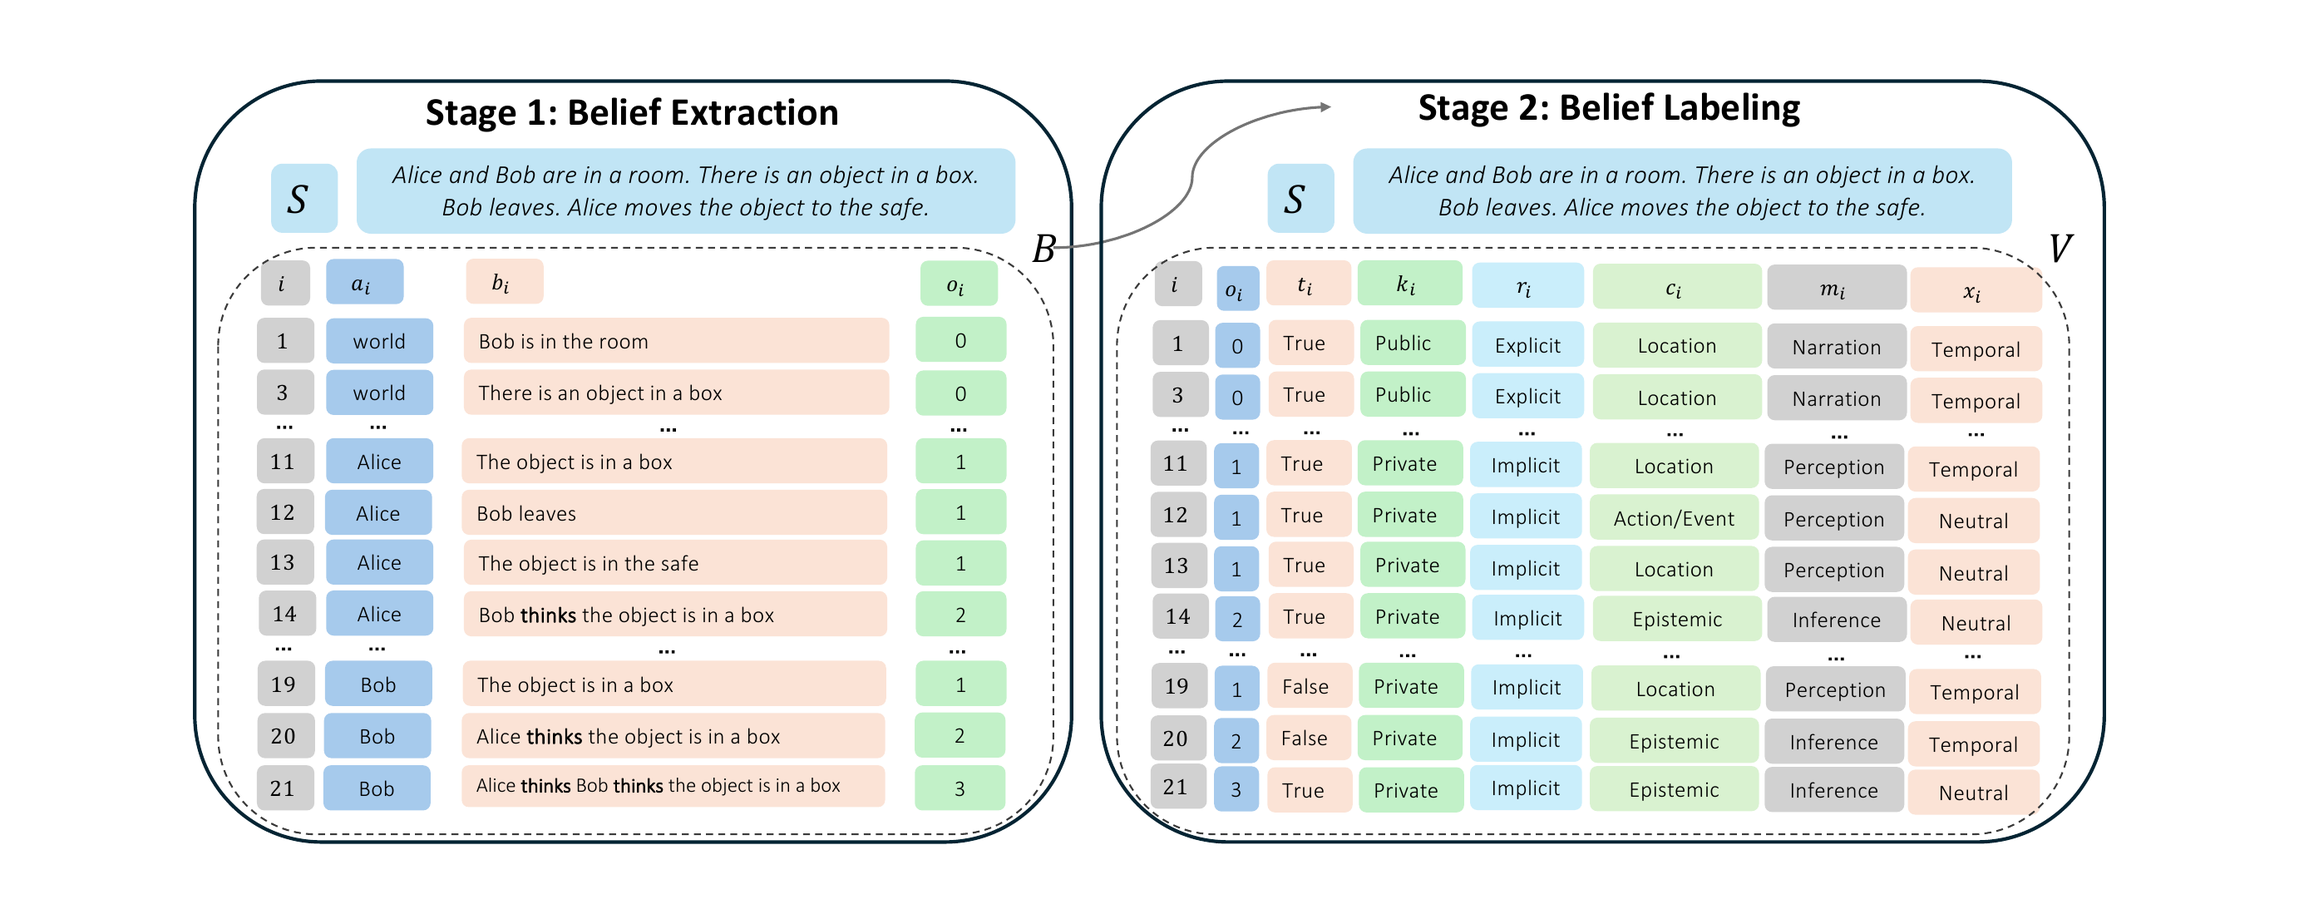
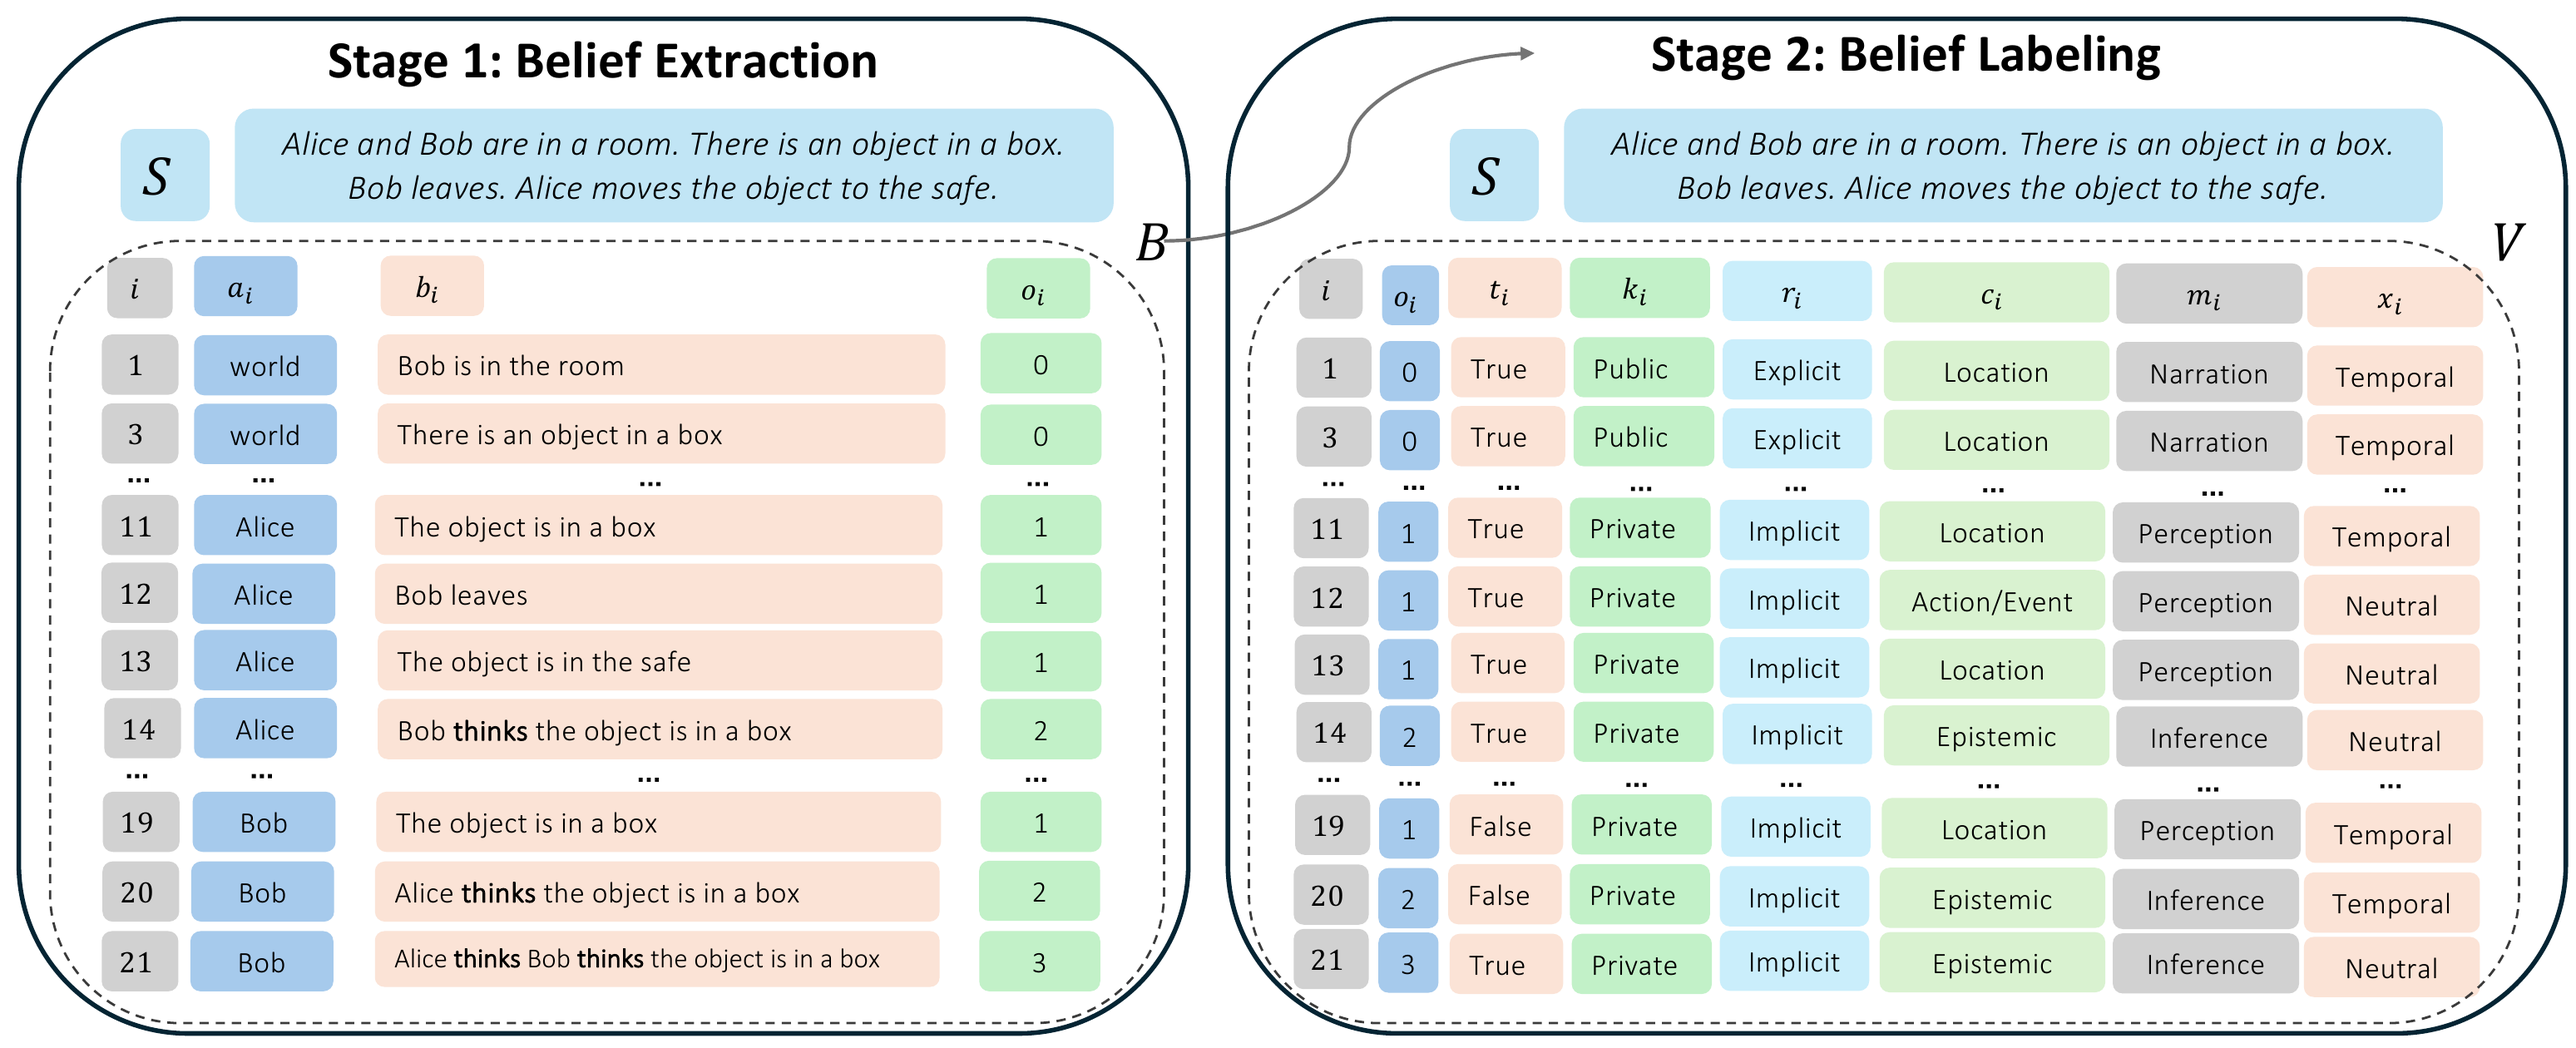
Update benchmark release for camera-ready paper

diff --git a/README.md b/README.md
@@ -4,6 +4,7 @@
   <a href="https://arxiv.org/abs/2605.26322"><img src="https://img.shields.io/badge/arXiv-2605.26322-b31b1b.svg" alt="arXiv"></a>
   <a href="https://adam-12-0.github.io/omnitom-project/"><img src="https://img.shields.io/badge/Project-Page-blue.svg" alt="Project Page"></a>
   <a href="https://github.com/Adam-12-0/omnitom-benchmark"><img src="https://img.shields.io/badge/GitHub-Benchmark-black.svg?logo=github" alt="GitHub"></a>
+  <a href="https://huggingface.co/datasets/Adam-12-0/omnitom-benchmark"><img src="https://img.shields.io/badge/Hugging%20Face-Dataset-yellow.svg?logo=huggingface" alt="Hugging Face Dataset"></a>
   <a href="LICENSE"><img src="https://img.shields.io/badge/License-MIT-green.svg" alt="License"></a>
 </p>
 
@@ -69,45 +70,74 @@ The seven schema dimensions are: **Order · Truth Status · Knowledge Access · 
 
 ### Main Benchmark Results (Zero-Shot, TELeR L3)
 
-Stage 1 reports category-wise and overall macro F1. Stage 2 reports per-dimension and overall macro belief-labeling accuracy. GPT-5 is omitted from Stage 1 because it serves as the semantic judge. **Bold** = best, <u>underline</u> = second-best.
+The camera-ready main table reports story-macro Stage 1 F1 with 95% bootstrap confidence intervals, endpoint QA accuracy, and story-macro Stage 2 accuracy. GPT-5 is omitted from Stage 1 because it serves as the semantic judge. **Bold** = best, <u>underline</u> = second-best.
+
+| Model | Stage 1 F1 [95% CI] | Endpoint QA | Order | Status | Access | Repr | CType | Source | Context | Overall |
+| --- | ---: | ---: | ---: | ---: | ---: | ---: | ---: | ---: | ---: | ---: |
+| **Closed-source** | | | | | | | | | | |
+| Gemini-2.5 Pro | **61.63 [60.88, 62.39]** | **82.77** | 96.23 | <u>86.50</u> | 66.94 | **89.01** | **86.35** | **86.70** | 87.07 | <u>85.54</u> |
+| Gemini-2.5 Flash | 55.75 [54.63, 56.82] | <u>81.82</u> | 95.56 | 84.97 | 71.34 | <u>87.58</u> | <u>85.97</u> | 84.10 | <u>92.14</u> | **85.95** |
+| GPT-5 | N/A | N/A | 95.18 | 82.72 | 66.85 | 83.42 | 79.96 | 83.02 | 88.83 | 82.85 |
+| **Open-weight** | | | | | | | | | | |
+| Gemma-3 27B | <u>58.03 [57.05, 59.01]</u> | 58.47 | <u>96.56</u> | 82.44 | 71.57 | 54.33 | 73.50 | 78.72 | 92.07 | 78.46 |
+| Mistral-Small 24B | 56.46 [55.53, 57.41] | 76.55 | 95.13 | 82.22 | **74.59** | 62.79 | 76.01 | 84.82 | 91.90 | 81.06 |
+| Mistral-Large 123B | 53.53 [52.61, 54.44] | 77.39 | **97.25** | **86.53** | <u>74.14</u> | 72.87 | 82.83 | <u>86.32</u> | **92.97** | 84.70 |
+| Qwen3 32B | 51.63 [50.68, 52.56] | 73.62 | 96.42 | 82.43 | 73.91 | 62.45 | 71.27 | 76.84 | 90.81 | 79.16 |
+| Llama-3.3 70B | 47.12 [46.12, 48.09] | 76.22 | 92.74 | 83.55 | 67.41 | 72.43 | 72.35 | 76.71 | 91.69 | 79.55 |
+| Qwen3 8B | 42.70 [41.50, 43.85] | 64.84 | 73.38 | 67.17 | 57.94 | 63.77 | 51.43 | 61.49 | 74.62 | 64.26 |
+| Llama-3.1 8B | 37.21 [36.02, 38.38] | 63.95 | 71.90 | 65.59 | 56.13 | 64.40 | 48.63 | 55.18 | 76.81 | 62.66 |
+
+### Detailed Results
+
+The tables below retain the category-wise Stage 1 breakdown and a separate Stage 2 view.
 
 #### Stage 1, Belief Extraction F1 (%)
 
 | Model | Params | AST | FBT | FPT | HT | PST | SIT | SST | **Overall** |
 | --- | --- | ---: | ---: | ---: | ---: | ---: | ---: | ---: | ---: |
 | **Closed-source** | | | | | | | | | |
-| Gemini-2.5 Flash | N/A | 42.40 | 56.48 | **57.78** | **50.34** | **58.55** | 62.91 | **56.31** | **54.97** |
+| Gemini-2.5 Pro | N/A | **54.33** | <u>71.55</u> | **62.11** | **55.10** | **64.84** | 63.74 | **60.21** | **61.63** |
+| Gemini-2.5 Flash | N/A | 42.40 | 56.48 | 57.78 | <u>50.34</u> | <u>58.55</u> | 62.91 | <u>56.31</u> | 55.75 |
 | GPT-5 | N/A | N/A | N/A | N/A | N/A | N/A | N/A | N/A | N/A |
 | **Open-weight** | | | | | | | | | |
-| Gemma-3 27B | 27B | **48.72** | **72.39** | 56.05 | 45.46 | 56.72 | **68.76** | **55.77** | **57.69** |
-| Mistral-Small 24B | 24B | **52.97** | 54.58 | **59.79** | **48.32** | 56.97 | **66.20** | 53.17 | **56.00** |
-| Mistral-Large 123B | 123B | 47.75 | **71.28** | 53.66 | 41.78 | **58.53** | 57.38 | 48.35 | 54.10 |
+| Gemma-3 27B | 27B | 48.72 | **72.39** | 56.05 | 45.46 | 56.72 | **68.76** | 55.77 | <u>58.03</u> |
+| Mistral-Small 24B | 24B | <u>52.97</u> | 54.58 | <u>59.79</u> | 48.32 | 56.97 | <u>66.20</u> | 53.17 | 56.46 |
+| Mistral-Large 123B | 123B | 47.75 | 71.28 | 53.66 | 41.78 | 58.53 | 57.38 | 48.35 | 53.53 |
 | Qwen3 32B | 32B | 46.88 | 57.32 | 53.38 | 41.41 | 57.25 | 56.51 | 48.67 | 51.63 |
-| Llama-3.3 70B | 70B | 37.51 | 64.07 | 46.33 | 36.27 | 47.23 | 57.70 | 41.58 | 47.24 |
-| Qwen3 8B | 8B | 39.12 | 50.22 | 44.21 | 37.14 | 48.36 | 47.20 | 37.60 | 43.41 |
-| Llama-3.1 8B | 8B | 26.34 | 48.29 | 35.80 | 31.48 | 36.12 | 53.52 | 30.37 | 37.42 |
+| Llama-3.3 70B | 70B | 37.51 | 64.07 | 46.33 | 36.27 | 47.23 | 57.70 | 41.58 | 47.12 |
+| Qwen3 8B | 8B | 38.72 | 49.70 | 43.59 | 37.14 | 47.87 | 47.20 | 37.60 | 42.70 |
+| Llama-3.1 8B | 8B | 26.34 | 48.29 | 35.80 | 30.85 | 35.01 | 53.52 | 30.08 | 37.21 |
 
 #### Stage 2, Belief-Labeling Accuracy (%)
 
 | Model | Order | Status | Access | Repr | CType | Source | Context | **Overall** |
 | --- | ---: | ---: | ---: | ---: | ---: | ---: | ---: | ---: |
 | **Closed-source** | | | | | | | | |
-| Gemini-2.5 Flash | 95.56 | **84.97** | 71.34 | **87.58** | **85.97** | 84.10 | **92.14** | **85.95** |
-| GPT-5 | 95.18 | 82.72 | 66.85 | **83.42** | 79.96 | 83.02 | 88.83 | 82.85 |
+| Gemini-2.5 Pro | 96.23 | <u>86.50</u> | 66.94 | **89.01** | **86.35** | **86.70** | 87.07 | <u>85.54</u> |
+| Gemini-2.5 Flash | 95.56 | 84.97 | 71.34 | <u>87.58</u> | <u>85.97</u> | 84.10 | <u>92.14</u> | **85.95** |
+| GPT-5 | 95.18 | 82.72 | 66.85 | 83.42 | 79.96 | 83.02 | 88.83 | 82.85 |
 | **Open-weight** | | | | | | | | |
-| Mistral-Large 123B | **97.25** | **86.53** | **74.14** | 72.87 | **82.83** | **86.32** | **92.97** | **84.70** |
-| Mistral-Small 24B | 95.13 | 82.22 | **74.59** | 62.79 | 76.01 | **84.82** | 91.90 | 81.06 |
+| Mistral-Large 123B | **97.25** | **86.53** | <u>74.14</u> | 72.87 | 82.83 | <u>86.32</u> | **92.97** | 84.70 |
+| Mistral-Small 24B | 95.13 | 82.22 | **74.59** | 62.79 | 76.01 | 84.82 | 91.90 | 81.06 |
 | Llama-3.3 70B | 92.74 | 83.55 | 67.41 | 72.43 | 72.35 | 76.71 | 91.69 | 79.55 |
 | Qwen3 32B | 96.42 | 82.43 | 73.91 | 62.45 | 71.27 | 76.84 | 90.81 | 79.16 |
-| Gemma-3 27B | **96.56** | 82.44 | 71.57 | 54.33 | 73.50 | 78.72 | 92.07 | 78.46 |
+| Gemma-3 27B | <u>96.56</u> | 82.44 | 71.57 | 54.33 | 73.50 | 78.72 | 92.07 | 78.46 |
 | Qwen3 8B | 73.38 | 67.17 | 57.94 | 63.77 | 51.43 | 61.49 | 74.62 | 64.26 |
 | Llama-3.1 8B | 71.90 | 65.59 | 56.13 | 64.40 | 48.63 | 55.18 | 76.81 | 62.66 |
 
 ### Key Finding: Actor-Specific Information Tracking is the Core Bottleneck
 
-OmniToM localizes a consistent failure mode across both stages. **Stage 1** extraction F1 drops sharply as belief order increases: models can identify world facts (Order 0) but struggle to assign those facts to the correct actor's information state (Order 1) and further degrade on nested beliefs (Order 2+). **Stage 2** labeling errors concentrate on *Knowledge Access* (56-75%) and *Representation* (54-88%), the two dimensions that require a model to determine who could know or share a belief, and whether the belief is explicitly stated or inferred from perception, testimony, memory, or context.
+OmniToM localizes a consistent failure mode across both stages. **Stage 1** extraction F1 shows a consistent gap between Order 0 world facts and actor-specific beliefs. Moving beyond world facts requires the model to determine which facts each actor perceived, missed, remembered, was told, or could infer. **Stage 2** results point to difficulty with *Knowledge Access* (56.13-74.59%), with several models also struggling on *Representation* (54.33-89.01%). Order 1 beliefs have the lowest overall labeling accuracy (72.2%), including 59.2% for Knowledge Access and 60.1% for Representation. Order 2+ accuracy is higher overall (75.3%), so the results do not show a monotonic decline with belief order.
 
-The gap between the two stages is also diagnostic: models label provided belief propositions far better (up to 85.95%) than they extract those propositions from raw text (up to 57.69%). This shows that current LLMs are much better at operating over an explicit belief structure once it is given than at constructing that structure directly from story text, a distinction invisible to endpoint QA benchmarks.
+The gap between the two stages is also diagnostic: models label provided belief propositions far better (up to 85.95%) than they extract those propositions from raw text (up to 61.63%). This shows that current LLMs are much better at operating over an explicit belief structure once it is given than at constructing that structure directly from story text, a distinction invisible to endpoint QA benchmarks.
+
+### Additional Experiments
+
+**Endpoint QA.** The main table reports accuracy on the linked ToMBench questions. Gemini-2.5 Pro reaches 82.77% and Gemini-2.5 Flash reaches 81.82%. The endpoint rankings differ from the Stage 1 extraction rankings, showing that endpoint answers and explicit belief reconstruction measure different model behavior.
+
+**Reference and judge sensitivity.** Replacing the Claude reference with an independently generated Mistral-Large reference raises Stage 1 scores for all seven eligible models while preserving the broad ordering, with two adjacent swaps. Replacing GPT-5 with a Llama-3.3 judge shifts scores upward by 15.93-21.90 points and swaps Mistral-Small and Mistral-Large. GPT-5 is retained because its human agreement is higher (87.76% versus 75.85%).
+
+**Class imbalance.** Context labels are 91.81% Neutral, and a majority-label baseline reaches 91.54% accuracy. The camera-ready appendix therefore reports macro-F1 and balanced accuracy alongside raw Stage 2 accuracy.
 
 ## Dataset Format
 
@@ -142,9 +172,9 @@ Each line of `benchmark_story_belief_labels.jsonl` is one JSON object:
 | --- | --- |
 | `benchmark_story_belief_labels.jsonl` | Benchmark dataset, one JSON object per story |
 | `benchmark_prompting.py` | Helpers for loading stories and reconstructing benchmark tables |
-| `prompts_extract.py` | Stage 1 extraction prompt builder |
-| `prompts_label.py` | Stage 2 labeling prompt builder |
-| `prompt_evaluate.py` | Semantic-judge prompt builder with three judge examples |
+| `extraction_prompts.py` | Stage 1 extraction prompt builder |
+| `label_prompts.py` | Stage 2 labeling prompt builder |
+| `judge_prompts.py` | Semantic-judge prompt builder with three judge examples |
 | `run_replication.py` | End-to-end experiment and evaluation runner |
 | `HF_DATASET_CARD.md` | Dataset card for dataset-hosting platforms |
 | `LICENSE` | License for the OmniToM release package |

diff --git a/HF_DATASET_CARD.md b/HF_DATASET_CARD.md
@@ -155,7 +155,7 @@ The benchmark sources its stories from ToMBench. From the original source corpus
 
 ### Annotation Process
 
-The benchmark was built with a human-calibrated, LLM-assisted annotation pipeline:
+The benchmark was built with a human-validated, LLM-assisted annotation pipeline:
 
 - `1,383` source stories in the original corpus
 - `916` stories retained after source filtering
@@ -166,13 +166,13 @@ The benchmark was built with a human-calibrated, LLM-assisted annotation pipelin
 The accompanying paper reports:
 
 - Stage 1 expert-overlap validation after reconciliation: `83.72%`
-- Stage 2 strict all-annotator exact-match label reliability: `92.23%`
+- Stage 2 strict all-annotator exact-match label reliability: `92.38%`
 - Human-human agreement on the semantic-alignment validation set: `88.86%`
-- Human-judge agreement for the selected semantic judge: `72.03%`
+- Human-judge agreement for the selected semantic judge: `87.76%`
 
 ### Who are the source data producers?
 
-The story texts are sourced from ToMBench. The belief structures and schema labels are benchmark annotations produced through the OmniToM human-calibrated annotation pipeline described in the accompanying paper.
+The story texts are sourced from ToMBench. The belief structures and schema labels are benchmark annotations produced through the OmniToM human-validated annotation pipeline described in the accompanying paper.
 
 ### Personal and Sensitive Information
 
@@ -186,10 +186,10 @@ Additional known limitations:
 
 - the benchmark evaluates story-based Theory of Mind rather than interactive, embodied, or multimodal social reasoning
 - the retained stories are short and self-contained, and do not stress-test long-horizon information tracking, dense temporal structure, or deeply nested mental states beyond the order-3 schema
-- the released labels come from a human-calibrated LLM-assisted pipeline rather than fully manual annotation of every story
+- the released labels come from a human-validated LLM-assisted pipeline rather than fully manual annotation of every story
 - the seven-dimensional schema is human-labeled and may retain interpretive subjectivity in socially ambiguous cases
-- Stage 1 extraction evaluation in the paper relies on a human-calibrated semantic judge rather than full human adjudication across the full release
-- the selected semantic judge reached `72.03%` agreement with human semantic-alignment decisions, so extraction `F1` should be interpreted as an approximate aggregate metric rather than an exact belief-level alignment score
+- Stage 1 extraction evaluation in the paper relies on a human-validated semantic judge rather than full human adjudication across the full release
+- the selected semantic judge reached `87.76%` agreement with human semantic-alignment decisions, so extraction `F1` should be interpreted as an approximate aggregate metric rather than an exact belief-level alignment score
 
 ### Recommendations
 
@@ -200,12 +200,17 @@ Users should interpret OmniToM as a diagnostic benchmark for explicit belief-str
 ```bibtex
 @misc{omnitom2026,
   title={OmniToM: Benchmarking Theory of Mind in LLMs via Explicit Belief Modeling},
-  author={Anonymous Authors},
+  author={Bawatneh, Adam and Sapkota, Sagar and Bedi, Amrit Singh and Karmaker, Santu and Shah, Mubarak},
   year={2026},
-  note={Anonymous review release}
+  eprint={2605.26322},
+  archivePrefix={arXiv}
 }
 ```
 
 ## More Information
 
-This anonymous release is intended to support peer review and benchmark inspection. Public release metadata and authorship details may be updated in a later non-anonymous version.
+Paper: [OmniToM on arXiv](https://arxiv.org/abs/2605.26322)
+
+Code and evaluation scripts: [Adam-12-0/omnitom-benchmark](https://github.com/Adam-12-0/omnitom-benchmark)
+
+Project page: [OmniToM](https://adam-12-0.github.io/omnitom-project/)
